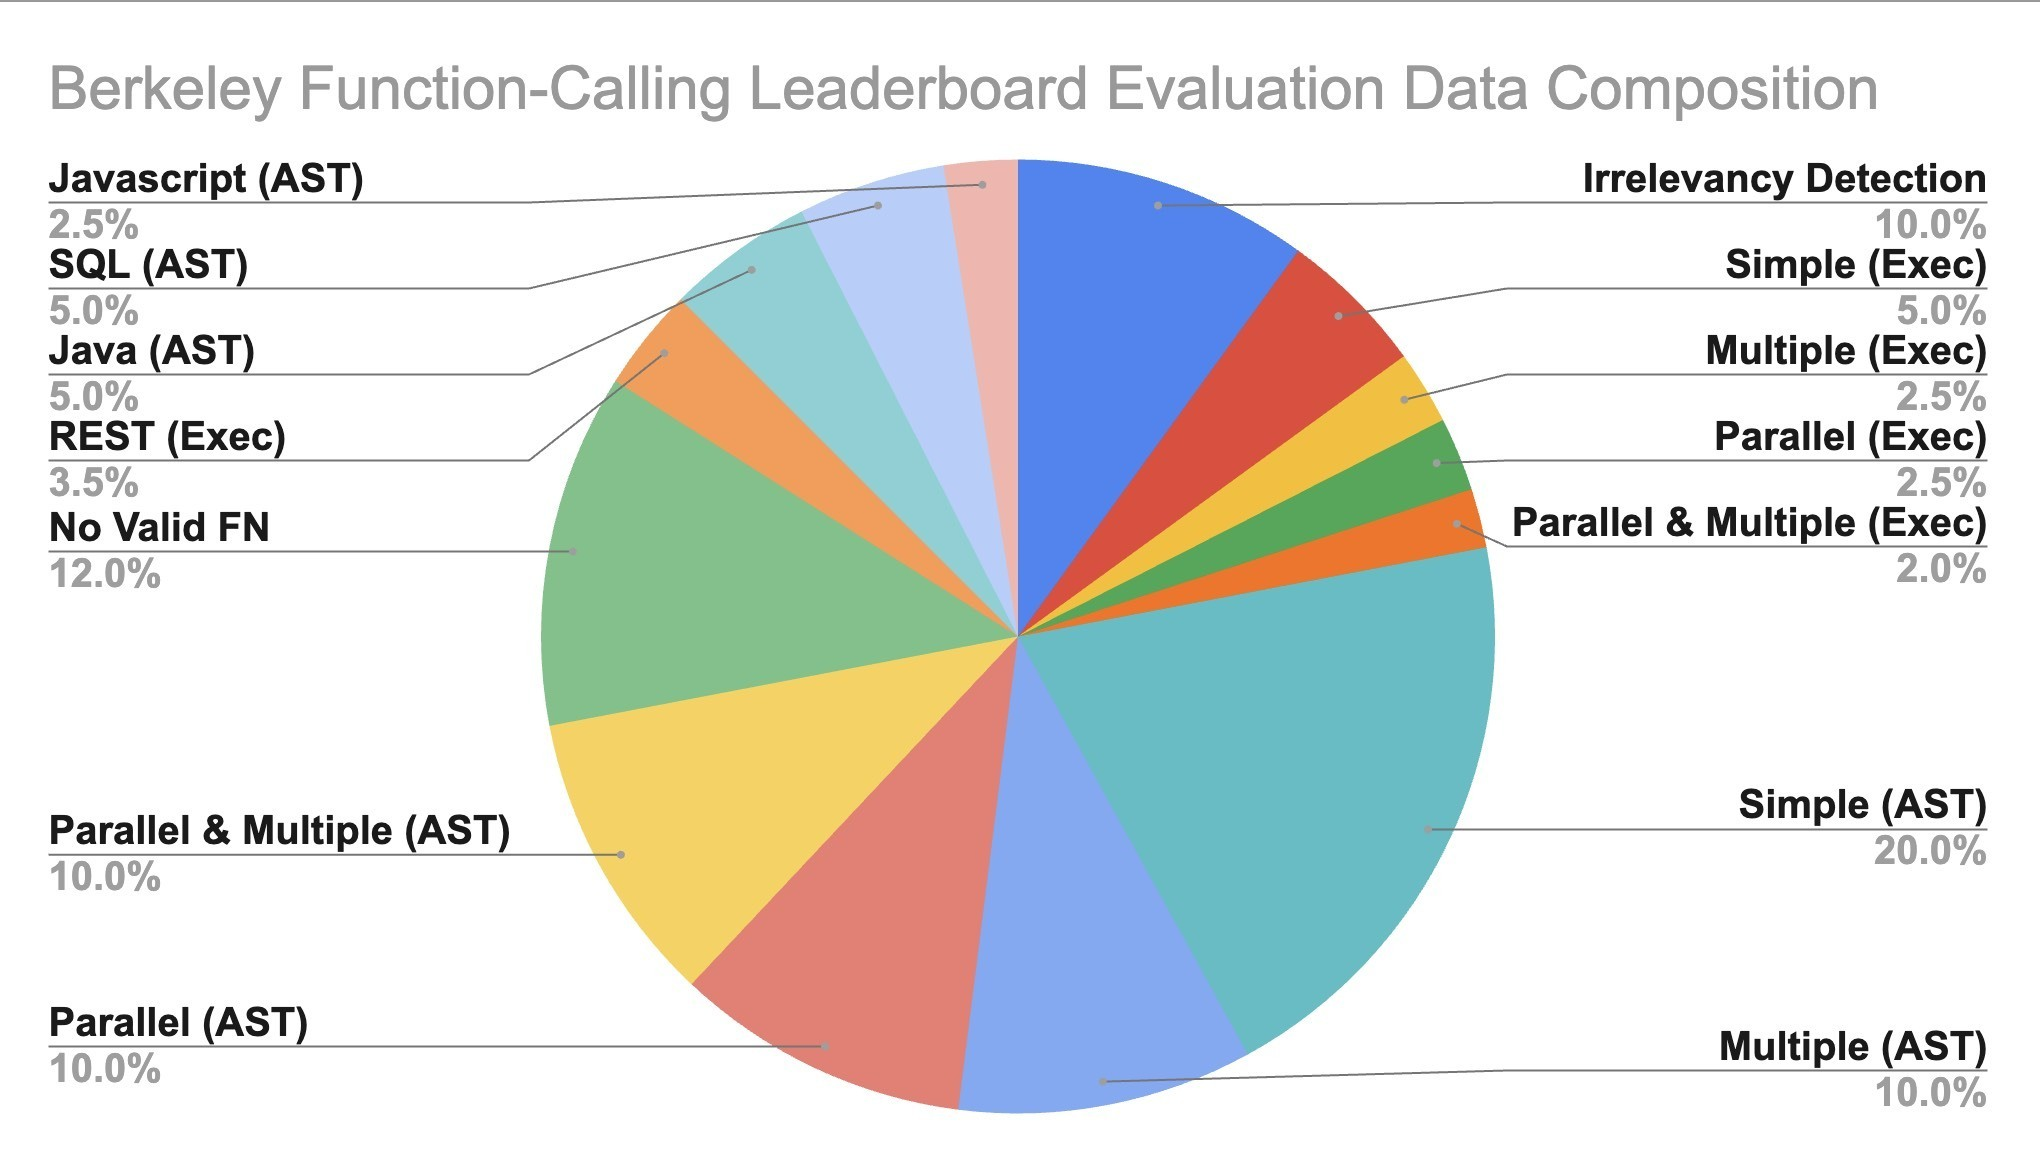
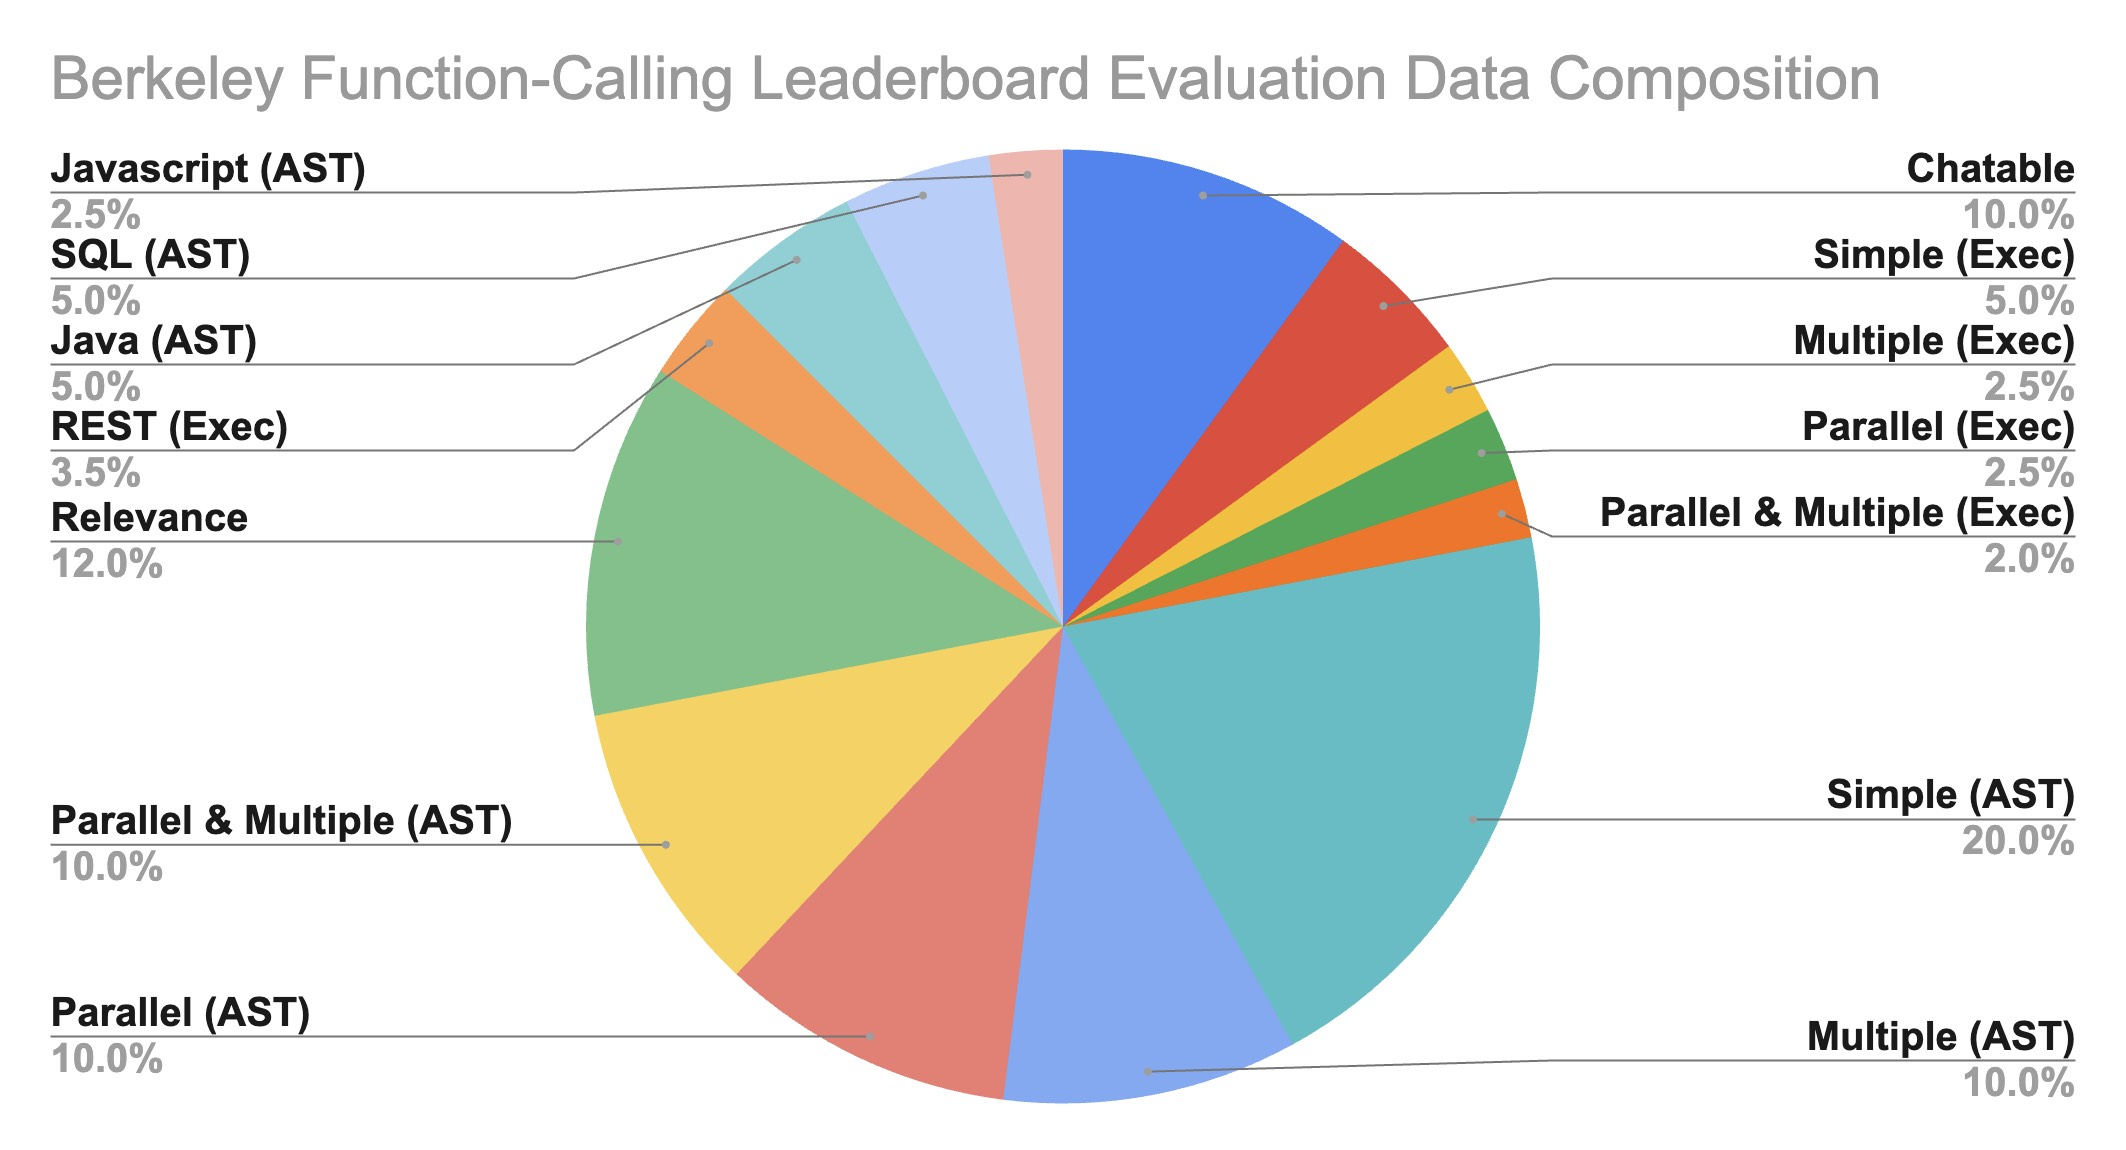
[fix] data composition, optional parameter handling

diff --git a/blogs/8_berkeley_function_calling_leaderboard.html b/blogs/8_berkeley_function_calling_leaderboard.html
@@ -180,7 +180,7 @@
                         <ul>
                             <li style="margin-bottom: 5px;"><b>Python</b>: Simple Function, Multiple Function, Parallel Function, Parallel Multiple
                                 Function</li>
-                            <li style="margin-bottom: 5px;"><b>Non-Python</b>: Function Relevance Detection, REST API, SQL, Java, Javascript</li>
+                            <li style="margin-bottom: 5px;"><b>Non-Python</b>: Chatable, Function Relevance Detection, REST API, SQL, Java, Javascript</li>
                         </ul>
                         </div>
                         <h5 id="benchmarking">Python Evaluation</h5>
@@ -207,9 +207,9 @@
                         <h5 id="benchmarking">Non-Python Evaluation</h5>
                         <div class="body">
                         <p>While the previous categories consist of the majority of our evaluations, we include other
-                            specific categories, namely REST API, SQL, Java, and JavaScript, to evaluate model performance on diverse scenarios and support of multiple programming languages, and are resilient
+                            specific categories, namely Chatable, Function Relevance Detection, REST API, SQL, Java, and JavaScript, to evaluate model performance on diverse scenarios and support of multiple programming languages, and are resilient
                             to irrelevant questions and function documentations.</p>
-
+                        <p><strong>Chatable:</strong> In chatable,  we design scenarios where no JSON function document are passed in, while users ask generic questions, the model is able to output any chat messages instead of function calls. We include this category for internal model evaluation and exclude the statistics from live leaderboard. We currently are working on better evaluation on chatability and ensure the chat is relevant and coherent with users' request and open to suggestions and feedback from the community. </p>
                         <p><strong>Function Relevance Detection:</strong> In function relevance detection, we design scenarios
                             where none of the provided functions are relevant and supposed to be invoked. We expect the
                             model's output to be no function call. This scenario provides insight to whether a model
@@ -244,7 +244,7 @@
                             well the function calling model can be extended to not just JSON and Python type but all the
                             language specific typings. We included 100 examples for Java AST evaluation and 70 examples for Javascript AST evaluation. 
                         </p>
-                        <p>The three categories outlined above provide insight into the performance of different models across popular API call scenarios, offering valuable perspectives on the potential of function-calling models.
+                        <p>The categories outlined above provide insight into the performance of different models across popular API call scenarios, offering valuable perspectives on the potential of function-calling models.
 
                         </p>
                         </div>
@@ -404,6 +404,12 @@
                                     <li style="margin-bottom: 5px;">Possible Location <code style="background-color: #eee; padding: 2px 4px; border-radius: 4px;">["New York City", "NYC"]</code> </li>
                                     <li style="margin-bottom: 5px;">Possibile date <code style="background-color: #eee; padding: 2px 4px; border-radius: 4px;">["20th June", "2023-06-20", "06/20/2023", "Jun.20,2023"]</code></li>
                                     <li style="margin-bottom: 5px;">Possible Anything <code style="background-color: #eee; padding: 2px 4px; border-radius: 4px;">["Manchester United", "Man United", "Man U", "MUFC"]</code> </li>
+                                </ul>
+                            </li>
+                            <li style="margin-bottom: 5px;">Handling Optional Parameters in Function Calls:
+                                <ul>
+                                    <li style="margin-bottom: 5px;">When optional parameters are not provided in the function calls (meaning they should use their default values), we represent their absence with <code style="background-color: #eee; padding: 2px 4px; border-radius: 4px;">""</code>. This notation tells the AST (Abstract Syntax Tree) checker that the function call intentionally omits these parameters.</li>
+                                    <li style="margin-bottom: 5px;">Additionally, we specify the default values as stated in the function's description. This approach allows us to correctly recognize both cases: when an optional parameter is omitted and when it is included with its default value. This ensures that responses are marked as correct in either scenario.</li>
                                 </ul>
                             </li>
                         </ul>
